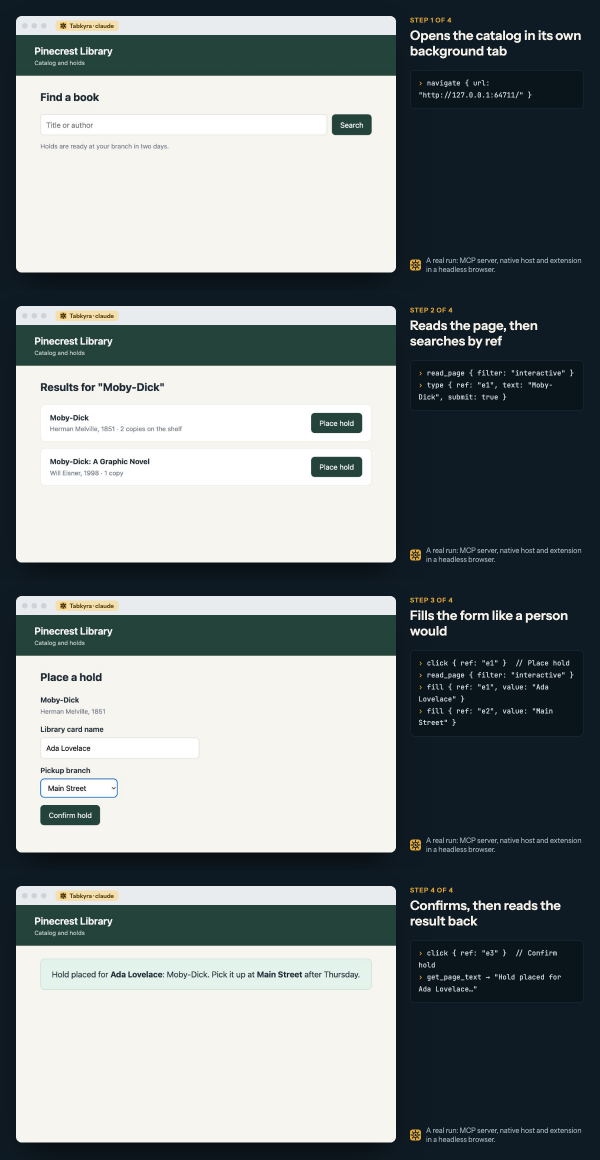
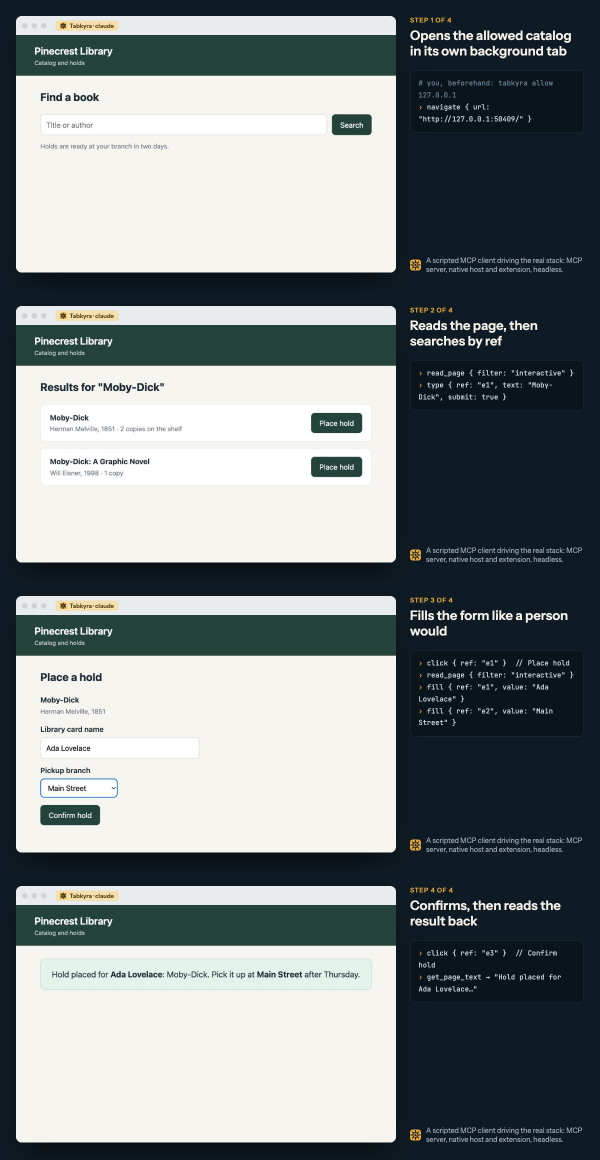
Address README/site review round 1
- The demo runs with site permissions on: it allows 127.0.0.1 with `tabkyra
  allow` first, and the captions say a scripted MCP client drives the real
  stack. capture.mjs also writes the site's copy, checks its prerequisites and
  always removes its temp dir.
- The quick start states what was measured: a fresh clone reached "Connected" in
  45 s with `tabkyra setup --yes` on a warm npm cache.
- Safety copy is exact: the model rules are guidance, not enforcement (the site
  permission is the lock); the socket is closed to other users, not to programs
  running as you; a separate profile is suggested for high-stakes accounts.
- The OMP snippet matches setup's; JSON configs need the full launcher path.
- The site terminal is the real transcript, abridged. og:image is dropped until
  there is hosting.
- The CHANGELOG's stale extension id is corrected; the unverifiable Claude in
  Chrome naming claim is gone; the side panel shortcut and the Playwright note
  are back.

diff --git a/browser/site/src/frontend/index.html b/browser/site/src/frontend/index.html
@@ -7,8 +7,6 @@
 	<meta name="description" content="Let Claude Code, Codex or any MCP agent drive your real Chromium browser in its own tab group, with your approval for every new site. One command to set up.">
 	<meta property="og:title" content="Tabkyra">
 	<meta property="og:description" content="You steer. Your agents work the tabs.">
-	<meta property="og:image" content="img/og.png">
-	<meta name="twitter:card" content="summary_large_image">
 	<link rel="icon" href="img/favicon.svg" type="image/svg+xml">
 	<link rel="stylesheet" href="app.css">
 </head>
@@ -43,31 +41,37 @@
 				</p>
 			</div>
 			<figure class="hero-demo">
-				<img src="img/demo.gif" alt="An agent searches a library catalog, places a hold and reads the confirmation through Tabkyra's MCP tools" width="960" height="464">
-				<figcaption>A real run, recorded headless. Every frame is the agent's own screenshot.</figcaption>
+				<img src="img/demo.gif" alt="A scripted MCP client searches a library catalog, places a hold and reads the confirmation through Tabkyra's tools" width="960" height="464">
+				<figcaption>A scripted MCP client driving the real stack, recorded headless. Every frame is its own screenshot.</figcaption>
 			</figure>
 		</section>
 
 		<section class="start" id="start">
 			<h2><span class="num">60s</span> To your first agent-driven tab</h2>
-			<p class="section-lede">Node 20+, git and a Chromium browser: Helium, Chrome, Brave, Edge, Arc, Vivaldi or Chromium 141+.</p>
+			<p class="section-lede">Node 20+, git and a Chromium browser: Helium, Chrome, Brave, Edge, Arc, Vivaldi or Chromium 141+. A fresh clone reached "Connected" in 45 seconds on a Mac with a warm npm cache; a cold first install takes longer.</p>
 			<div class="term">
 				<div class="term-bar"><span></span><span></span><span></span><button class="copy" data-copy="git clone https://github.com/baney75/tabkyra &amp;&amp; cd tabkyra&#10;(cd cli &amp;&amp; npm install &amp;&amp; npm run build &amp;&amp; npm link)&#10;tabkyra setup">Copy</button></div>
 <pre><code><span class="p">$</span> git clone https://github.com/baney75/tabkyra &amp;&amp; cd tabkyra
 <span class="p">$</span> (cd cli &amp;&amp; npm install &amp;&amp; npm run build &amp;&amp; npm link)
 <span class="p">$</span> tabkyra setup
+<span class="b">Tabkyra</span> <span class="d">setup 0.1.0</span>
 
-<span class="b">Tabkyra</span> <span class="d">setup</span>
-<span class="b">1.</span> Build the extension            <span class="g">✓</span>
-<span class="b">2.</span> Register the native host       <span class="g">✓</span> <span class="d">Helium, Chrome</span>
-<span class="b">3.</span> Connect your coding agents     <span class="g">✓</span> <span class="d">Claude Code, Codex</span>
+<span class="b">1.</span> Build the extension
+  <span class="g">✓</span> Extension built <span class="d">(1.1.8)</span>
+<span class="b">2.</span> Register the native host with your browsers
+  <span class="g">✓</span> Helium        <span class="d">registered</span>
+<span class="b">3.</span> Connect your coding agents
+  <span class="g">✓</span> Claude Code is set up.
+  <span class="g">✓</span> Codex is set up.
 <span class="b">4.</span> Load the extension
-<span class="d">╭─ One step in your browser ──────────────────────────────╮</span>
-<span class="d">│</span> <span class="b">1</span>  Open chrome://extensions, click <span class="w">Load unpacked</span>        <span class="d">│</span>
-<span class="d">│</span> <span class="b">2</span>  Pick <span class="c">/path/to/tabkyra/dist-chrome</span>                    <span class="d">│</span>
-<span class="d">│</span> <span class="b">3</span>  Details → turn on <span class="w">Allow user scripts</span>                 <span class="d">│</span>
-<span class="d">╰─────────────────────────────────────────────────────────╯</span>
-   <span class="g">✓</span> Connected. Tabkyra can reach your browser.</code></pre>
+<span class="d">╭─ One step in your browser ─────────────────────────────────╮</span>
+<span class="d">│</span> <span class="b">1</span>  Open chrome://extensions, turn on <span class="w">Developer mode</span>,       <span class="d">│</span>
+<span class="d">│</span>    and click <span class="w">Load unpacked</span>.                                <span class="d">│</span>
+<span class="d">│</span> <span class="b">2</span>  Pick this folder:                                       <span class="d">│</span>
+<span class="d">│</span>    <span class="c">/path/to/tabkyra/dist-chrome</span>                            <span class="d">│</span>
+<span class="d">│</span> <span class="b">3</span>  Click <span class="w">Details</span> on Tabkyra and turn on <span class="w">Allow user scripts</span>. <span class="d">│</span>
+<span class="d">╰────────────────────────────────────────────────────────────╯</span>
+  <span class="g">✓</span> Connected. Tabkyra can reach your browser <span class="d">(1.1.8)</span>.</code></pre>
 			</div>
 			<ol class="steps">
 				<li><b>Setup does the work.</b> It builds the extension, registers it with every Chromium browser it finds, and offers to add Tabkyra to Claude Code and Codex. For OpenCode, Cursor and OMP it prints the config to paste.</li>
@@ -86,7 +90,7 @@
 				</article>
 				<article>
 					<h3>Page text is data</h3>
-					<p>Every agent is told that page content is untrusted, that it must ask you before sending, buying, posting or deleting under your sign-in, and that it never types passwords or payment details.</p>
+					<p>Every agent is told that page content is untrusted, that it must ask you before sending, buying, posting or deleting under your sign-in, and that it never types passwords or payment details. That's guidance to the model, not a lock; the site permission is the lock.</p>
 				</article>
 				<article>
 					<h3>Its own tab group</h3>
@@ -94,7 +98,7 @@
 				</article>
 				<article>
 					<h3>Nothing on the network</h3>
-					<p>The browser starts a native host that only your user account can reach, through a private Unix socket. Only the Tabkyra extension id can connect to it.</p>
+					<p>The browser starts a native host that talks over a Unix socket other users can't open. Only the Tabkyra extension can start it. Programs running as you can reach it, as they can your shell.</p>
 				</article>
 			</div>
 		</section>

diff --git a/browser/README.md b/browser/README.md
@@ -42,6 +42,10 @@ git clone https://github.com/baney75/tabkyra && cd tabkyra
 tabkyra setup
 ```
 
+On a Mac with a warm npm cache, a fresh clone reached "Connected" in 45 seconds with
+`tabkyra setup --yes`. A first install with a cold cache downloads more and can take a few
+minutes.
+
 `tabkyra setup` builds the extension, registers the native host with every Chromium
 browser it finds, and offers to add Tabkyra to Claude Code and Codex. For OpenCode,
 Cursor and OMP it prints the config block to paste. Then it shows the one step the
@@ -55,7 +59,7 @@ browser makes you do by hand:
 │    /path/to/tabkyra/dist-chrome                                │
 │ 3  Click Details on Tabkyra and turn on Allow user scripts.    │
 ╰────────────────────────────────────────────────────────────────╯
-  ✓ Connected. Tabkyra can reach your browser.
+  ✓ Connected. Tabkyra can reach your browser (1.1.8).
 ```
 
 Then ask your agent something like:
@@ -63,19 +67,21 @@ Then ask your agent something like:
 > Use tabkyra to open news.ycombinator.com and list the top five stories.
 
 If anything is off, `tabkyra doctor` checks each piece and prints the exact command
-that fixes it.
+that fixes it. For the side panel agent, press `Cmd+Shift+S` (`Ctrl+Shift+S`) and add a
+provider.
 
 <p align="center">
-  <img src="media/demo.gif" alt="An agent searches a library catalog, places a hold and reads the confirmation, all through Tabkyra's MCP tools" width="860">
-  <br><sub>A real run, recorded headless by <code>scripts/demo/capture.mjs</code>: the agent opens a page, reads it, searches, fills a form and confirms.
-  Each frame is the agent's own <code>screenshot</code>. <a href="media/demo-steps.png">Still frames</a>.</sub>
+  <img src="media/demo.gif" alt="A scripted MCP client searches a library catalog, places a hold and reads the confirmation through Tabkyra's tools" width="860">
+  <br><sub>Recorded headless by <code>scripts/demo/capture.mjs</code>: a scripted MCP client drives the real stack (MCP server, native host, extension).
+  The local site was allowed first with <code>tabkyra allow</code>. Each frame is the client's own <code>screenshot</code>. <a href="media/demo-steps.png">Still frames</a>.</sub>
 </p>
 
 ## Connect your agent
 
-`tabkyra setup` does this for you. `tabkyra install` writes a launcher at
-`~/.config/tabkyra/tabkyra` that pins Node by absolute path, so an agent started from a
-GUI app doesn't need `node` on its PATH. Point your harness at it:
+`tabkyra setup` does this for you and prints the exact paths for your machine.
+`tabkyra install` writes a launcher at `~/.config/tabkyra/tabkyra` that pins Node by
+absolute path, so an agent started from a GUI app doesn't need `node` on its PATH. Point
+your harness at it (JSON configs need the full path, not `~`):
 
 **Claude Code**
 
@@ -95,10 +101,16 @@ codex mcp add tabkyra -- ~/.config/tabkyra/tabkyra mcp
 { "mcp": { "tabkyra": { "type": "local", "command": ["/Users/you/.config/tabkyra/tabkyra", "mcp"], "enabled": true } } }
 ```
 
-**Cursor** (`~/.cursor/mcp.json`) and **OMP** (`~/.omp/agent/mcp.json`)
+**Cursor** (`~/.cursor/mcp.json`)
 
 ```json
 { "mcpServers": { "tabkyra": { "command": "/Users/you/.config/tabkyra/tabkyra", "args": ["mcp"] } } }
+```
+
+**OMP** (`~/.omp/agent/mcp.json`)
+
+```json
+{ "mcpServers": { "tabkyra": { "type": "stdio", "command": "/Users/you/.config/tabkyra/tabkyra", "args": ["mcp"], "enabled": true } } }
 ```
 
 **pi** has no MCP client, so `tabkyra pi-extension` writes a native pi extension instead.
@@ -116,8 +128,7 @@ Any other MCP client can run the stdio server with `~/.config/tabkyra/tabkyra mc
 | `run_js`, `wait`, `read_console`, `read_network` | Scripts, waits and debugging |
 | `tabs_show` | Bring a tab in front of you, when you need to sign in or see it |
 
-The tool names match Claude in Chrome's, so prompts written for it carry over. Every
-tool's description includes its parameters and an example.
+Every tool's description documents its parameters and includes an example.
 
 ## Safety model
 
@@ -131,15 +142,19 @@ Your browser is signed in as you, so the defaults are conservative.
   content is untrusted and that it must ask you before acting under your sign-in:
   sending, posting, buying, deleting or changing settings. It also tells the agent never
   to type passwords or payment details. For a sign-in or a captcha, it brings the tab to
-  you.
+  you. These are instructions to the model, not enforcement: a hostile page can still
+  attempt prompt injection. The site permission is the hard limit. For high-stakes
+  accounts, run agents in a separate browser profile that isn't signed in to them.
 - **Agents stay in their own tab group** ("Tabkyra · claude", "Tabkyra · codex"). Their
   tabs open in the background, they can't see your other tabs, and popups from their
   tabs don't steal focus. `tabs_show` is the only tool that changes what you see.
 - **Nothing listens on the network.** The browser starts the native host, which relays
   frames over a Unix socket in `/tmp/tabkyra-bridge-<user>/` (0700 directory, 0600
-  socket). The client refuses sockets that another user owns.
-- **Only this extension can reach the host.** The host manifest's `allowed_origins`
-  names one fixed extension id, `kenehmggpggpiolepbjojeenmeapgfoc`.
+  socket). Other users can't reach it, and the client refuses sockets another user owns.
+  Any program running as you can, which is the same trust level as your shell.
+- **Only this extension can start the host.** The host manifest's `allowed_origins`
+  names one fixed extension id, `kenehmggpggpiolepbjojeenmeapgfoc`, derived from the
+  manifest `key` (the e2e test checks it).
 - **No Claude subscription login.** Anthropic doesn't allow Claude Pro or Max
   subscriptions in third-party apps, so the side panel takes Anthropic API keys only.
   ChatGPT, GitHub Copilot and Gemini sign-in still work, as does any API key.
@@ -209,8 +224,9 @@ applies `patches/pi-mono.patch`, builds the declarations and installs everything
 ./check.sh                              # biome + tsc for the extension and the site
 (cd cli && npm run check && npm test)   # CLI typecheck, build, setup/doctor/MCP tests
 (cd cli && npm run test:e2e)            # extension + host + MCP in a throwaway headless Chromium
+                                        # (first time: cd cli && npx playwright-core install chromium)
 node media/brand/build.mjs              # regenerate icons and brand art from media/brand
-node scripts/demo/capture.mjs           # re-record the README demo
+node scripts/demo/capture.mjs           # re-record the README demo (needs ffmpeg and `cd site && npm install`)
 ```
 
 The brand (mark, palette, type, voice) is documented in

diff --git a/browser/CHANGELOG.md b/browser/CHANGELOG.md
@@ -53,7 +53,7 @@
 - MCP token use: `read_page` and `find` return one line per element instead of pretty JSON (roughly a quarter of the tokens), `read_page` text defaults to 3000 characters, snapshots list in-viewport elements first so long pages are not cut above the fold, and tool descriptions spell out the tab-group workflow.
 - The side panel no longer requires the "Allow User Scripts" toggle: page injection (`browserjs()`, overlay, element picker, image extraction) runs through `userScripts` when available and through the debugger's `Runtime.evaluate` otherwise, with a CDP-binding shim standing in for `chrome.runtime.sendMessage` (`src/browser/inject.ts`). `userScripts` moved to `optional_permissions`.
 - Type errors in `CustomProviderEditDialog` (missing i18n keys) and `CustomProvidersTab` (`remove` shadowed `HTMLElement.remove`).
-- Manifest: fixed extension `key` (stable id `bbkgpflnkggdfabgjhofdmdopgjopamc`), new permissions `tabGroups`, `nativeMessaging`, `alarms`.
+- Manifest: fixed extension `key` (stable id `kenehmggpggpiolepbjojeenmeapgfoc`, checked by the e2e test), new permissions `tabGroups`, `nativeMessaging`, `alarms`.
 
 ### Removed
 - Sitegeist's site content (orb, testimonials, preview videos, install page) and `site/run.sh deploy`'s upstream server target; deploy now refuses until Tabkyra has hosting.

diff --git a/browser/cli/README.md b/browser/cli/README.md
@@ -95,8 +95,7 @@ mode to "allow any site" there. pi: set `TABKYRA_AUTO_ALLOW=1` to auto-approve.
 | `click`, `hover`, `type`, `press`, `fill`, `scroll`, `drag`, `actions` | act on it |
 | `run_js`, `wait`, `read_console`, `read_network` | scripts, waits and debugging |
 
-Names follow Claude in Chrome's, so prompts written for it carry over. Every tool has
-parameter docs and an example in its description. The server's instructions tell the
+Every tool documents its parameters and includes an example in its description. The server's instructions tell the
 agent that page text is untrusted data and that it must ask before acting under the
 user's sign-in. With no browser connected, every tool returns: "Tabkyra isn't connected.
 Ask the user to open Helium/Chrome with the Tabkyra extension loaded, or run
